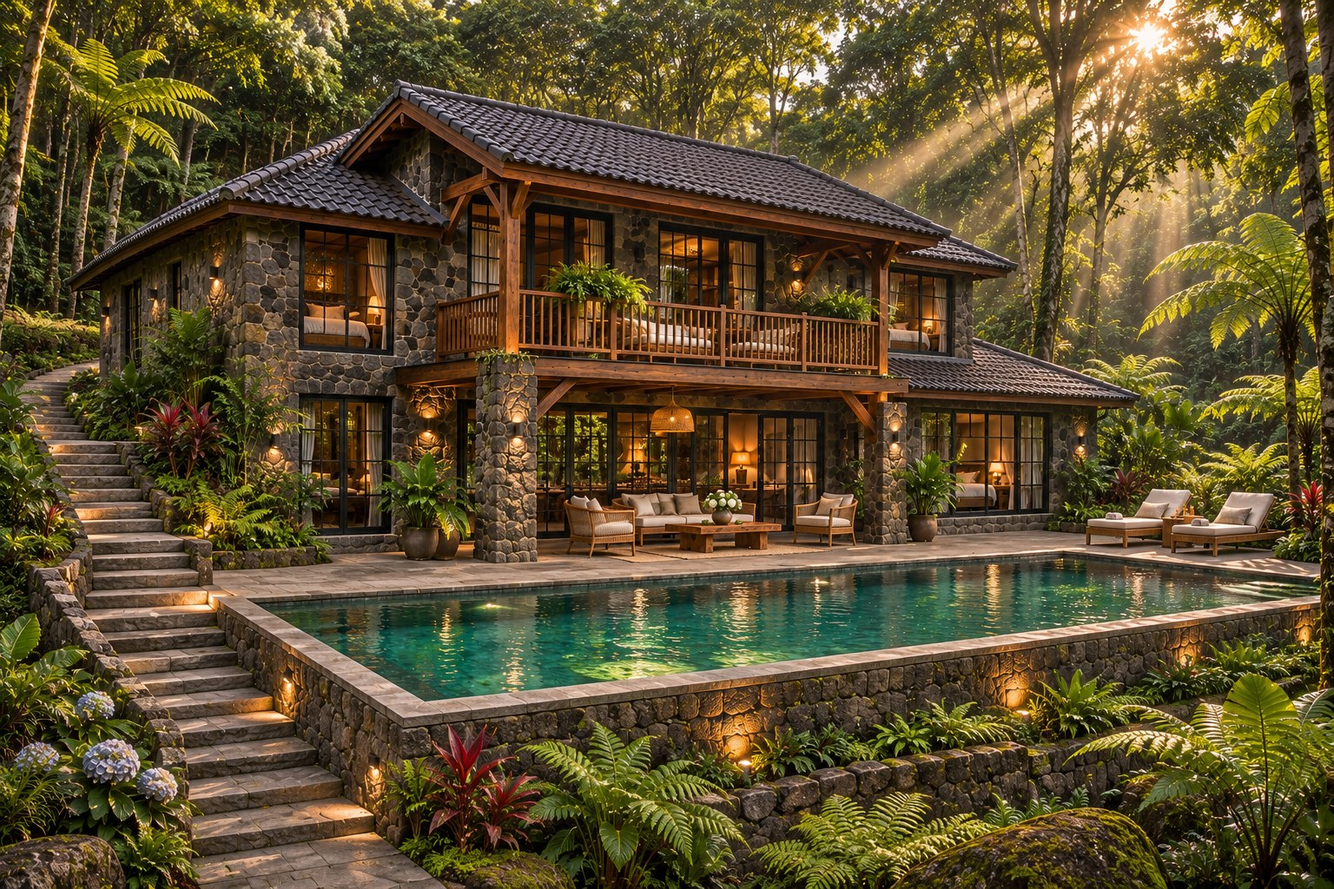
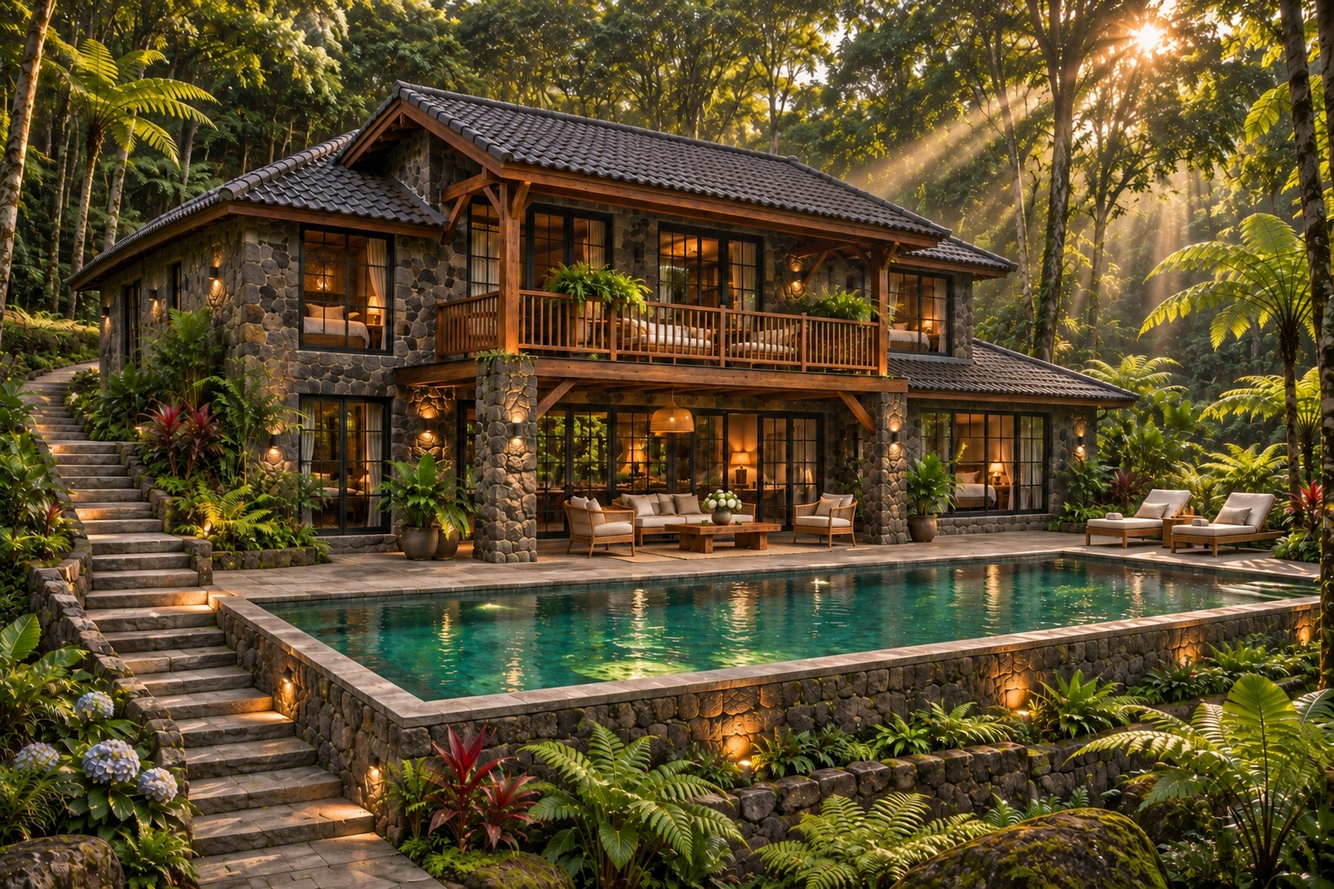
Complete Forest Lodge balcony pillar stonework

diff --git a/residences.html b/residences.html
@@ -1,1 +1,1 @@
-<!doctype html><html lang="en"><head><meta charset="utf-8"><meta name="viewport" content="width=device-width,initial-scale=1"><title>Cabins, lodges &amp; estates | Mount Paradise, Trawas</title><meta name="description" content="Explore private cabins, lodges and estates at Mount Paradise in Trawas, East Java. Discover the signature Mountain Lodge and the residence collection for mountain living."><meta name="theme-color" content="#20362d"><meta property="og:site_name" content="Mount Paradise"><meta property="og:title" content="Private Residences | Mount Paradise, Trawas"><meta property="og:description" content="Explore private cabins, lodges and estates at Mount Paradise in Trawas, East Java. Discover the signature Mountain Lodge and the residence collection for mountain living."><meta property="og:type" content="website"><meta property="og:image" content="https://mountparadisejava.com/assets/residences-social.jpg?v=c3536069a8eb"><meta property="og:image:secure_url" content="https://mountparadisejava.com/assets/residences-social.jpg?v=c3536069a8eb"><meta property="og:image:type" content="image/jpeg"><meta property="og:image:width" content="1200"><meta property="og:image:height" content="630"><meta property="og:image:alt" content="The Mountain Lodge, a private timber-and-volcanic-stone residence at Mount Paradise"><meta property="og:url" content="https://mountparadisejava.com/residences.html"><meta name="twitter:card" content="summary_large_image"><meta name="twitter:title" content="Private Residences | Mount Paradise, Trawas"><meta name="twitter:description" content="Explore private cabins, lodges and estates at Mount Paradise in Trawas, East Java. Discover the signature Mountain Lodge and the residence collection for mountain living."><meta name="twitter:image" content="https://mountparadisejava.com/assets/residences-social.jpg?v=c3536069a8eb"><link rel="canonical" href="https://mountparadisejava.com/residences.html"><link rel="icon" href="assets/mark.svg" type="image/svg+xml"><link rel="stylesheet" href="styles.css?v=20261120-anchor"><script src="site.js?v=20261120-anchor" defer></script></head><body id="top" class="land-page"><a class="skip" href="#main">Skip to content</a><header><a class="brand" href="index.html" aria-label="Mount Paradise home"><svg viewBox="0 0 80 34" aria-hidden="true"><path d="M3 31 29 4 43 21 53 10 77 31M17 25 29 16 37 21"/></svg><span>MOUNT PARADISE<small>TRAWAS · EAST JAVA</small></span></a><button class="menu-toggle" aria-expanded="false" aria-controls="navigation">Menu <span aria-hidden="true">☰</span></button><nav id="navigation" aria-label="Main navigation"><details class="nav-group"><summary>Discover</summary><div class="nav-dropdown"><a href="index.html">Home</a><a href="discover.html">The Mount Paradise story</a><a href="arvorest-woods.html">Arvorest Woods</a></div></details><a href="main-lodge.html" >Main Lodge</a><a href="occasions.html" >Occasions</a><a href="residences.html" aria-current="page">Residences</a><a href="botanical-gardens.html" >Arboretum & Gardens</a><a href="wellness.html" >Wellness & Recreation</a><a href="800-club.html" >800 Club</a></nav></header><main id="main"><section class="page-heading"><p class="eyebrow">Private residences / Ownership collection</p><h1>Your place<br><em>in the mountains.</em></h1><p>Cabins. Lodges. Estates. Eight ways to make Mount Paradise your own.</p></section><section class="section collection-intro" id="discover"><div class="split"><h2>Choose your<br>way of living.</h2><p>Explore the residence models offered for ownership, from an intimate cabin to a generous private estate. Each architectural concept shares warm timber, volcanic stone and a private relationship with the garden. Final layouts, specifications and availability are discussed individually with our sales team.</p></div><div class="catalogue-tabs" aria-label="Residence categories"><a href="#cabins">Cabins <small>2 models</small></a><a href="#lodges">Lodges <small>4 models</small></a><a href="#estates">Estates <small>2 models</small></a></div><div class="model-menu"><a href="#mountain-cabin"><img src="assets/mountain-cabin.jpg?v=d2bf4eb482dc" alt="Mountain Cabin" loading="lazy"><strong>Mountain Cabin</strong><small>Cabins · Single-storey one-bedroom cabin</small></a><a href="#fern-retreat"><img src="assets/fern-retreat.jpg?v=429e02c01bad" alt="Garden Cabin" loading="lazy"><strong>Garden Cabin</strong><small>Cabins · Single-storey one-bedroom garden cabin</small></a><a href="#garden-lodge"><img src="assets/mountain-lodge-full.jpg?v=c046265d838a" alt="Mountain Lodge" loading="lazy"><strong>Mountain Lodge</strong><small>Lodges · Single-storey two-bedroom mountain home</small></a><a href="#orchard-family"><img src="assets/orchard-family.jpg?v=bd83fcfa621b" alt="Courtyard Lodge" loading="lazy"><strong>Courtyard Lodge</strong><small>Lodges · Three-bedroom home arranged around a courtyard</small></a><a href="#vista-lodge"><img src="assets/vista.jpg?v=15de71b12b52" alt="Vista Lodge" loading="lazy"><strong>Vista Lodge</strong><small>Lodges · Broad single-storey three-bedroom lodge</small></a><a href="#forest-lodge"><img src="assets/forest-cinematic.jpg?v=5a62e40a1016" alt="Forest Lodge" loading="lazy"><strong>Forest Lodge</strong><small>Lodges · Two-storey four-bedroom forest home</small></a><a href="#ridge-reserve"><img src="assets/ridge-reserve.jpg?v=6df47c1a2cef" alt="Ridge Estate" loading="lazy"><strong>Ridge Estate</strong><small>Estates · Split-level residence with a tall gable and upper balcony</small></a><a href="#paradise-estate"><img src="assets/paradise-estate.jpg?v=f716ccda8613" alt="Paradise Estate" loading="lazy"><strong>Paradise Estate</strong><small>Estates · Multiple connected residential wings with varied roof heights</small></a></div></section><section class="section collection-group" id="cabins"><p class="eyebrow">cabins</p><h2>A simpler foothold.</h2><p class="collection-lead">Compact private escapes with a garden and sheltered porch.</p><article class="collection-lodge" id="mountain-cabin"><figure class=""><a href="assets/mountain-cabin.jpg?v=d2bf4eb482dc" data-lightbox aria-label="Enlarge: Mountain Cabin"><img src="assets/mountain-cabin.jpg?v=d2bf4eb482dc" alt="Mountain Cabin" loading="lazy" width="1536" height="1024"></a></figure><div class="collection-details"><div><h3>Mountain Cabin</h3><p>A warm timber and volcanic-stone cabin with room to settle in. The enlarged concept brings together a cozy living area, kitchenette and small dining table, with a separate bedroom and enclosed bathroom behind. A sheltered porch keeps everyday life close to the mountain garden.</p><a class="text-link" href="mailto:sales@mountparadisejava.com?subject=Mount%20Paradise%20%7C%20Mountain%20Cabin">Enquire about Mountain Cabin</a></div><dl><div><dt>Architecture</dt><dd>Single-storey one-bedroom cabin</dd></div><div><dt>Garden</dt><dd>A small private fern garden</dd></div><div><dt>Pool</dt><dd>No private pool; shared swimming planned at the Main Lodge, subject to membership</dd></div><div><dt>Outdoor living</dt><dd>Sheltered porch with two lounge chairs</dd></div></dl></div></article><article class="collection-lodge" id="fern-retreat"><figure class=""><a href="assets/fern-retreat.jpg?v=429e02c01bad" data-lightbox aria-label="Enlarge: Garden Cabin"><img src="assets/fern-retreat.jpg?v=429e02c01bad" alt="Garden Cabin" loading="lazy" width="1536" height="1024"></a></figure><div class="collection-details"><div><h3>Garden Cabin</h3><p>A generous veranda and private lawn shape this light-filled garden home. The refreshed concept makes room for an open living area, a compact kitchen and indoor dining, with a private bedroom behind a full-height wall and an enclosed bathroom reached from an internal passage. The bedroom sits within a volcanic-stone enclosure on the left, with private garden-facing windows, while a curving path leads to broad steps and the main living entrance. Warm timber and deep eaves preserve its intimate garden character.</p><a class="text-link" href="mailto:sales@mountparadisejava.com?subject=Mount%20Paradise%20%7C%20Garden%20Cabin">Enquire about Garden Cabin</a></div><dl><div><dt>Architecture</dt><dd>Single-storey one-bedroom garden cabin</dd></div><div><dt>Garden</dt><dd>Private lawn and a layered fern garden</dd></div><div><dt>Pool</dt><dd>Garden living without a pool in this concept</dd></div><div><dt>Outdoor living</dt><dd>Broad veranda with a lounge nook and outdoor table</dd></div></dl></div></article></section><section class="section collection-group" id="lodges"><p class="eyebrow">lodges</p><h2>Room to make it yours.</h2><p class="collection-lead">Two-, three- and four-bedroom homes with distinct settings for family life and entertaining. Every lodge is planned with its own driveway and parking behind the house.</p><article class="collection-lodge" id="garden-lodge"><figure class=""><a href="assets/mountain-lodge-full.jpg?v=c046265d838a" data-lightbox aria-label="Enlarge: Mountain Lodge"><img src="assets/mountain-lodge-full.jpg?v=c046265d838a" alt="Mountain Lodge" loading="lazy" width="1536" height="1024"></a></figure><div class="collection-details"><div><h3>Mountain Lodge</h3><p>Our signature two-bedroom Mountain Lodge brings together a sheltered veranda, private pool and generous mountain outlook. Dark volcanic stone and warm timber frame relaxed living spaces, with an intimate scale for a couple, a small family or visiting friends.</p><a class="text-link" href="mailto:sales@mountparadisejava.com?subject=Mount%20Paradise%20%7C%20Mountain%20Lodge">Enquire about Mountain Lodge</a></div><dl><div><dt>Architecture</dt><dd>Single-storey two-bedroom mountain home</dd></div><div><dt>Garden</dt><dd>Private planted garden and pool terrace</dd></div><div><dt>Pool</dt><dd>Private pool</dd></div><div><dt>Outdoor living</dt><dd>BBQ dining terrace</dd></div><div><dt>Bedrooms</dt><dd>2 bedrooms</dd></div><div><dt>Arrival</dt><dd>Private driveway and parking behind the lodge</dd></div></dl></div></article><article class="collection-lodge" id="orchard-family"><figure class=""><a href="assets/orchard-family.jpg?v=bd83fcfa621b" data-lightbox aria-label="Enlarge: Courtyard Lodge"><img src="assets/orchard-family.jpg?v=bd83fcfa621b" alt="Courtyard Lodge" loading="lazy" width="1536" height="1024"></a></figure><div class="collection-details"><div><h3>Courtyard Lodge</h3><p>Three bedrooms sit within connected wings around a generous courtyard lawn. A larger family pool, covered BBQ dining and space for a casual game of badminton make this a home for unhurried days together.</p><a class="text-link" href="mailto:sales@mountparadisejava.com?subject=Mount%20Paradise%20%7C%20Courtyard%20Lodge">Enquire about Courtyard Lodge</a></div><dl><div><dt>Architecture</dt><dd>Three-bedroom home arranged around a courtyard</dd></div><div><dt>Garden</dt><dd>Courtyard lawn with a badminton net and fruit-tree borders</dd></div><div><dt>Pool</dt><dd>Generous private family swimming pool</dd></div><div><dt>Outdoor living</dt><dd>Covered BBQ dining terrace and lawn games</dd></div><div><dt>Bedrooms</dt><dd>3 bedrooms</dd></div><div><dt>Arrival</dt><dd>Private driveway and parking behind the lodge</dd></div></dl></div></article><article class="collection-lodge" id="vista-lodge"><figure class=""><a href="assets/vista.jpg?v=15de71b12b52" data-lightbox aria-label="Enlarge: Vista Lodge"><img src="assets/vista.jpg?v=15de71b12b52" alt="Vista Lodge" loading="lazy" width="1536" height="1024"></a></figure><div class="collection-details"><div><h3>Vista Lodge</h3><p>A complete three-bedroom home arranged along a broad mountain-facing veranda. A long private pool follows the outlook, with a comfortable lounge and a single sheltered dining area giving the terrace a relaxed residential character.</p><a class="text-link" href="mailto:sales@mountparadisejava.com?subject=Mount%20Paradise%20%7C%20Vista%20Lodge">Enquire about Vista Lodge</a></div><dl><div><dt>Architecture</dt><dd>Broad single-storey three-bedroom lodge</dd></div><div><dt>Garden</dt><dd>Generous view-facing garden and terrace</dd></div><div><dt>Pool</dt><dd>Long private pool</dd></div><div><dt>Outdoor living</dt><dd>Sheltered dining for six, BBQ area and a veranda lounge</dd></div><div><dt>Bedrooms</dt><dd>3 bedrooms</dd></div><div><dt>Arrival</dt><dd>Private driveway and parking behind the lodge</dd></div></dl></div></article><article class="collection-lodge" id="forest-lodge"><figure class=""><a href="assets/forest-cinematic.jpg?v=5a62e40a1016" data-lightbox aria-label="Enlarge: Forest Lodge"><img src="assets/forest-cinematic.jpg?v=5a62e40a1016" alt="Forest Lodge" loading="lazy" width="1536" height="1024"></a></figure><div class="collection-details"><div><h3>Forest Lodge</h3><p>The most expansive lodge in the collection, with four bedrooms, an upper timber balcony and generous living spaces opening into the forest. A substantial swimming pool and a reconfigured terrace create room to swim, lounge and gather among the trees.</p><a class="text-link" href="mailto:sales@mountparadisejava.com?subject=Mount%20Paradise%20%7C%20Forest%20Lodge">Enquire about Forest Lodge</a></div><dl><div><dt>Architecture</dt><dd>Two-storey four-bedroom forest home</dd></div><div><dt>Garden</dt><dd>Terraced garden with shaded corners</dd></div><div><dt>Pool</dt><dd>Large private swimming pool with a generous terrace</dd></div><div><dt>Outdoor living</dt><dd>Sheltered lounge, garden dining and poolside terrace</dd></div><div><dt>Bedrooms</dt><dd>4 bedrooms</dd></div><div><dt>Arrival</dt><dd>Private driveway and parking behind the lodge</dd></div></dl></div></article></section><section class="section collection-group" id="estates"><p class="eyebrow">estates</p><h2>A more expansive world.</h2><p class="collection-lead">Generous homes and grounds for longer stays and bringing everyone together.</p><article class="collection-lodge" id="ridge-reserve"><figure class=""><a href="assets/ridge-reserve.jpg?v=6df47c1a2cef" data-lightbox aria-label="Enlarge: Ridge Estate"><img src="assets/ridge-reserve.jpg?v=6df47c1a2cef" alt="Ridge Estate" loading="lazy" width="1536" height="1024"></a></figure><div class="collection-details"><div><h3>Ridge Estate</h3><p>A tall glazed gable and a lower stone wing create a more expressive mountain home. An upper balcony overlooks the grounds, while the main terrace opens to a generous lawn and a long pool facing the landscape.</p><a class="text-link" href="mailto:sales@mountparadisejava.com?subject=Mount%20Paradise%20%7C%20Ridge%20Estate">Enquire about Ridge Estate</a></div><dl><div><dt>Architecture</dt><dd>Split-level residence with a tall gable and upper balcony</dd></div><div><dt>Garden</dt><dd>Generous landscaped yard with distinct lounging and lawn areas</dd></div><div><dt>Pool</dt><dd>An elongated pool along the view terrace</dd></div><div><dt>Outdoor living</dt><dd>Covered outdoor kitchen with a built-in BBQ grill and dining for eight</dd></div></dl></div></article><article class="collection-lodge" id="paradise-estate"><figure class=""><a href="assets/paradise-estate.jpg?v=f716ccda8613" data-lightbox aria-label="Enlarge: Paradise Estate"><img src="assets/paradise-estate.jpg?v=f716ccda8613" alt="Paradise Estate" loading="lazy" width="1536" height="1024"></a></figure><div class="collection-details"><div><h3>Paradise Estate</h3><p>A private estate conceived around gathering, with substantial residential wings and a shared living hall. The grounds become a sequence of outdoor rooms: a broad lawn, a pool terrace, a dining space and a separate fire lounge.</p><a class="text-link" href="mailto:sales@mountparadisejava.com?subject=Mount%20Paradise%20%7C%20Paradise%20Estate">Enquire about Paradise Estate</a></div><dl><div><dt>Architecture</dt><dd>Multiple connected residential wings with varied roof heights</dd></div><div><dt>Garden</dt><dd>Expansive private grounds with a large usable lawn and mature planting</dd></div><div><dt>Pool</dt><dd>A long private pool with space to relax alongside</dd></div><div><dt>Outdoor living</dt><dd>Full outdoor kitchen with BBQ grill, dining for twelve and a separate fire lounge</dd></div></dl></div></article></section><section class="section contact-band"><div><p class="eyebrow">Residence ownership</p><h2>Find your<br>mountain home.</h2><p>For model availability, specifications and ownership enquiries, speak with the sales team.</p></div><div><a class="text-link" href="mailto:sales@mountparadisejava.com">sales@mountparadisejava.com</a></div></section></main><footer><div class="footer-grid"><div><p class="eyebrow">Mount Paradise / Trawas, East Java</p><h2>An elevated way<br>to stay, gather, and live.</h2><a class="text-link" href="mailto:info@mountparadisejava.com">info@mountparadisejava.com</a><br><a class="text-link" href="mailto:sales@mountparadisejava.com">Residence sales</a></div><div class="footer-links"><a href="discover.html">Discover</a><a href="main-lodge.html">Main Lodge</a><a href="occasions.html">Occasions</a><a href="residences.html">Residences</a><a href="botanical-gardens.html">Arboretum & Gardens</a><a href="wellness.html">Wellness & Recreation</a><a href="800-club.html">800 Club</a></div><div class="footer-links"><a href="index.html">Home</a><a href="arvorest-woods.html">Arvorest Woods</a><a href="botanical-gardens.html">Arboretum & gardens</a></div></div><p class="vision-note">A destination taking shape. Imagery presents architectural and landscape concepts; proposed facilities and experiences are part of the overall vision.</p><div class="footer-bottom"><span>© 2026 Mount Paradise</span><span>MountParadiseJava.com</span><a href="#top">Back to top</a></div></footer><dialog class="lightbox" aria-label="Image viewer"><button aria-label="Close image" class="close-lightbox">Close ×</button><img alt=""></dialog></body></html>
+<!doctype html><html lang="en"><head><meta charset="utf-8"><meta name="viewport" content="width=device-width,initial-scale=1"><title>Cabins, lodges &amp; estates | Mount Paradise, Trawas</title><meta name="description" content="Explore private cabins, lodges and estates at Mount Paradise in Trawas, East Java. Discover the signature Mountain Lodge and the residence collection for mountain living."><meta name="theme-color" content="#20362d"><meta property="og:site_name" content="Mount Paradise"><meta property="og:title" content="Private Residences | Mount Paradise, Trawas"><meta property="og:description" content="Explore private cabins, lodges and estates at Mount Paradise in Trawas, East Java. Discover the signature Mountain Lodge and the residence collection for mountain living."><meta property="og:type" content="website"><meta property="og:image" content="https://mountparadisejava.com/assets/residences-social.jpg?v=c3536069a8eb"><meta property="og:image:secure_url" content="https://mountparadisejava.com/assets/residences-social.jpg?v=c3536069a8eb"><meta property="og:image:type" content="image/jpeg"><meta property="og:image:width" content="1200"><meta property="og:image:height" content="630"><meta property="og:image:alt" content="The Mountain Lodge, a private timber-and-volcanic-stone residence at Mount Paradise"><meta property="og:url" content="https://mountparadisejava.com/residences.html"><meta name="twitter:card" content="summary_large_image"><meta name="twitter:title" content="Private Residences | Mount Paradise, Trawas"><meta name="twitter:description" content="Explore private cabins, lodges and estates at Mount Paradise in Trawas, East Java. Discover the signature Mountain Lodge and the residence collection for mountain living."><meta name="twitter:image" content="https://mountparadisejava.com/assets/residences-social.jpg?v=c3536069a8eb"><link rel="canonical" href="https://mountparadisejava.com/residences.html"><link rel="icon" href="assets/mark.svg" type="image/svg+xml"><link rel="stylesheet" href="styles.css?v=20261120-anchor"><script src="site.js?v=20261120-anchor" defer></script></head><body id="top" class="land-page"><a class="skip" href="#main">Skip to content</a><header><a class="brand" href="index.html" aria-label="Mount Paradise home"><svg viewBox="0 0 80 34" aria-hidden="true"><path d="M3 31 29 4 43 21 53 10 77 31M17 25 29 16 37 21"/></svg><span>MOUNT PARADISE<small>TRAWAS · EAST JAVA</small></span></a><button class="menu-toggle" aria-expanded="false" aria-controls="navigation">Menu <span aria-hidden="true">☰</span></button><nav id="navigation" aria-label="Main navigation"><details class="nav-group"><summary>Discover</summary><div class="nav-dropdown"><a href="index.html">Home</a><a href="discover.html">The Mount Paradise story</a><a href="arvorest-woods.html">Arvorest Woods</a></div></details><a href="main-lodge.html" >Main Lodge</a><a href="occasions.html" >Occasions</a><a href="residences.html" aria-current="page">Residences</a><a href="botanical-gardens.html" >Arboretum & Gardens</a><a href="wellness.html" >Wellness & Recreation</a><a href="800-club.html" >800 Club</a></nav></header><main id="main"><section class="page-heading"><p class="eyebrow">Private residences / Ownership collection</p><h1>Your place<br><em>in the mountains.</em></h1><p>Cabins. Lodges. Estates. Eight ways to make Mount Paradise your own.</p></section><section class="section collection-intro" id="discover"><div class="split"><h2>Choose your<br>way of living.</h2><p>Explore the residence models offered for ownership, from an intimate cabin to a generous private estate. Each architectural concept shares warm timber, volcanic stone and a private relationship with the garden. Final layouts, specifications and availability are discussed individually with our sales team.</p></div><div class="catalogue-tabs" aria-label="Residence categories"><a href="#cabins">Cabins <small>2 models</small></a><a href="#lodges">Lodges <small>4 models</small></a><a href="#estates">Estates <small>2 models</small></a></div><div class="model-menu"><a href="#mountain-cabin"><img src="assets/mountain-cabin.jpg?v=d2bf4eb482dc" alt="Mountain Cabin" loading="lazy"><strong>Mountain Cabin</strong><small>Cabins · Single-storey one-bedroom cabin</small></a><a href="#fern-retreat"><img src="assets/fern-retreat.jpg?v=429e02c01bad" alt="Garden Cabin" loading="lazy"><strong>Garden Cabin</strong><small>Cabins · Single-storey one-bedroom garden cabin</small></a><a href="#garden-lodge"><img src="assets/mountain-lodge-full.jpg?v=c046265d838a" alt="Mountain Lodge" loading="lazy"><strong>Mountain Lodge</strong><small>Lodges · Single-storey two-bedroom mountain home</small></a><a href="#orchard-family"><img src="assets/orchard-family.jpg?v=bd83fcfa621b" alt="Courtyard Lodge" loading="lazy"><strong>Courtyard Lodge</strong><small>Lodges · Three-bedroom home arranged around a courtyard</small></a><a href="#vista-lodge"><img src="assets/vista.jpg?v=15de71b12b52" alt="Vista Lodge" loading="lazy"><strong>Vista Lodge</strong><small>Lodges · Broad single-storey three-bedroom lodge</small></a><a href="#forest-lodge"><img src="assets/forest-cinematic.jpg?v=d5d4e773dcdc" alt="Forest Lodge" loading="lazy"><strong>Forest Lodge</strong><small>Lodges · Two-storey four-bedroom forest home</small></a><a href="#ridge-reserve"><img src="assets/ridge-reserve.jpg?v=6df47c1a2cef" alt="Ridge Estate" loading="lazy"><strong>Ridge Estate</strong><small>Estates · Split-level residence with a tall gable and upper balcony</small></a><a href="#paradise-estate"><img src="assets/paradise-estate.jpg?v=f716ccda8613" alt="Paradise Estate" loading="lazy"><strong>Paradise Estate</strong><small>Estates · Multiple connected residential wings with varied roof heights</small></a></div></section><section class="section collection-group" id="cabins"><p class="eyebrow">cabins</p><h2>A simpler foothold.</h2><p class="collection-lead">Compact private escapes with a garden and sheltered porch.</p><article class="collection-lodge" id="mountain-cabin"><figure class=""><a href="assets/mountain-cabin.jpg?v=d2bf4eb482dc" data-lightbox aria-label="Enlarge: Mountain Cabin"><img src="assets/mountain-cabin.jpg?v=d2bf4eb482dc" alt="Mountain Cabin" loading="lazy" width="1536" height="1024"></a></figure><div class="collection-details"><div><h3>Mountain Cabin</h3><p>A warm timber and volcanic-stone cabin with room to settle in. The enlarged concept brings together a cozy living area, kitchenette and small dining table, with a separate bedroom and enclosed bathroom behind. A sheltered porch keeps everyday life close to the mountain garden.</p><a class="text-link" href="mailto:sales@mountparadisejava.com?subject=Mount%20Paradise%20%7C%20Mountain%20Cabin">Enquire about Mountain Cabin</a></div><dl><div><dt>Architecture</dt><dd>Single-storey one-bedroom cabin</dd></div><div><dt>Garden</dt><dd>A small private fern garden</dd></div><div><dt>Pool</dt><dd>No private pool; shared swimming planned at the Main Lodge, subject to membership</dd></div><div><dt>Outdoor living</dt><dd>Sheltered porch with two lounge chairs</dd></div></dl></div></article><article class="collection-lodge" id="fern-retreat"><figure class=""><a href="assets/fern-retreat.jpg?v=429e02c01bad" data-lightbox aria-label="Enlarge: Garden Cabin"><img src="assets/fern-retreat.jpg?v=429e02c01bad" alt="Garden Cabin" loading="lazy" width="1536" height="1024"></a></figure><div class="collection-details"><div><h3>Garden Cabin</h3><p>A generous veranda and private lawn shape this light-filled garden home. The refreshed concept makes room for an open living area, a compact kitchen and indoor dining, with a private bedroom behind a full-height wall and an enclosed bathroom reached from an internal passage. The bedroom sits within a volcanic-stone enclosure on the left, with private garden-facing windows, while a curving path leads to broad steps and the main living entrance. Warm timber and deep eaves preserve its intimate garden character.</p><a class="text-link" href="mailto:sales@mountparadisejava.com?subject=Mount%20Paradise%20%7C%20Garden%20Cabin">Enquire about Garden Cabin</a></div><dl><div><dt>Architecture</dt><dd>Single-storey one-bedroom garden cabin</dd></div><div><dt>Garden</dt><dd>Private lawn and a layered fern garden</dd></div><div><dt>Pool</dt><dd>Garden living without a pool in this concept</dd></div><div><dt>Outdoor living</dt><dd>Broad veranda with a lounge nook and outdoor table</dd></div></dl></div></article></section><section class="section collection-group" id="lodges"><p class="eyebrow">lodges</p><h2>Room to make it yours.</h2><p class="collection-lead">Two-, three- and four-bedroom homes with distinct settings for family life and entertaining. Every lodge is planned with its own driveway and parking behind the house.</p><article class="collection-lodge" id="garden-lodge"><figure class=""><a href="assets/mountain-lodge-full.jpg?v=c046265d838a" data-lightbox aria-label="Enlarge: Mountain Lodge"><img src="assets/mountain-lodge-full.jpg?v=c046265d838a" alt="Mountain Lodge" loading="lazy" width="1536" height="1024"></a></figure><div class="collection-details"><div><h3>Mountain Lodge</h3><p>Our signature two-bedroom Mountain Lodge brings together a sheltered veranda, private pool and generous mountain outlook. Dark volcanic stone and warm timber frame relaxed living spaces, with an intimate scale for a couple, a small family or visiting friends.</p><a class="text-link" href="mailto:sales@mountparadisejava.com?subject=Mount%20Paradise%20%7C%20Mountain%20Lodge">Enquire about Mountain Lodge</a></div><dl><div><dt>Architecture</dt><dd>Single-storey two-bedroom mountain home</dd></div><div><dt>Garden</dt><dd>Private planted garden and pool terrace</dd></div><div><dt>Pool</dt><dd>Private pool</dd></div><div><dt>Outdoor living</dt><dd>BBQ dining terrace</dd></div><div><dt>Bedrooms</dt><dd>2 bedrooms</dd></div><div><dt>Arrival</dt><dd>Private driveway and parking behind the lodge</dd></div></dl></div></article><article class="collection-lodge" id="orchard-family"><figure class=""><a href="assets/orchard-family.jpg?v=bd83fcfa621b" data-lightbox aria-label="Enlarge: Courtyard Lodge"><img src="assets/orchard-family.jpg?v=bd83fcfa621b" alt="Courtyard Lodge" loading="lazy" width="1536" height="1024"></a></figure><div class="collection-details"><div><h3>Courtyard Lodge</h3><p>Three bedrooms sit within connected wings around a generous courtyard lawn. A larger family pool, covered BBQ dining and space for a casual game of badminton make this a home for unhurried days together.</p><a class="text-link" href="mailto:sales@mountparadisejava.com?subject=Mount%20Paradise%20%7C%20Courtyard%20Lodge">Enquire about Courtyard Lodge</a></div><dl><div><dt>Architecture</dt><dd>Three-bedroom home arranged around a courtyard</dd></div><div><dt>Garden</dt><dd>Courtyard lawn with a badminton net and fruit-tree borders</dd></div><div><dt>Pool</dt><dd>Generous private family swimming pool</dd></div><div><dt>Outdoor living</dt><dd>Covered BBQ dining terrace and lawn games</dd></div><div><dt>Bedrooms</dt><dd>3 bedrooms</dd></div><div><dt>Arrival</dt><dd>Private driveway and parking behind the lodge</dd></div></dl></div></article><article class="collection-lodge" id="vista-lodge"><figure class=""><a href="assets/vista.jpg?v=15de71b12b52" data-lightbox aria-label="Enlarge: Vista Lodge"><img src="assets/vista.jpg?v=15de71b12b52" alt="Vista Lodge" loading="lazy" width="1536" height="1024"></a></figure><div class="collection-details"><div><h3>Vista Lodge</h3><p>A complete three-bedroom home arranged along a broad mountain-facing veranda. A long private pool follows the outlook, with a comfortable lounge and a single sheltered dining area giving the terrace a relaxed residential character.</p><a class="text-link" href="mailto:sales@mountparadisejava.com?subject=Mount%20Paradise%20%7C%20Vista%20Lodge">Enquire about Vista Lodge</a></div><dl><div><dt>Architecture</dt><dd>Broad single-storey three-bedroom lodge</dd></div><div><dt>Garden</dt><dd>Generous view-facing garden and terrace</dd></div><div><dt>Pool</dt><dd>Long private pool</dd></div><div><dt>Outdoor living</dt><dd>Sheltered dining for six, BBQ area and a veranda lounge</dd></div><div><dt>Bedrooms</dt><dd>3 bedrooms</dd></div><div><dt>Arrival</dt><dd>Private driveway and parking behind the lodge</dd></div></dl></div></article><article class="collection-lodge" id="forest-lodge"><figure class=""><a href="assets/forest-cinematic.jpg?v=d5d4e773dcdc" data-lightbox aria-label="Enlarge: Forest Lodge"><img src="assets/forest-cinematic.jpg?v=d5d4e773dcdc" alt="Forest Lodge" loading="lazy" width="1536" height="1024"></a></figure><div class="collection-details"><div><h3>Forest Lodge</h3><p>The most expansive lodge in the collection, with four bedrooms, an upper timber balcony and generous living spaces opening into the forest. A substantial swimming pool and a reconfigured terrace create room to swim, lounge and gather among the trees.</p><a class="text-link" href="mailto:sales@mountparadisejava.com?subject=Mount%20Paradise%20%7C%20Forest%20Lodge">Enquire about Forest Lodge</a></div><dl><div><dt>Architecture</dt><dd>Two-storey four-bedroom forest home</dd></div><div><dt>Garden</dt><dd>Terraced garden with shaded corners</dd></div><div><dt>Pool</dt><dd>Large private swimming pool with a generous terrace</dd></div><div><dt>Outdoor living</dt><dd>Sheltered lounge, garden dining and poolside terrace</dd></div><div><dt>Bedrooms</dt><dd>4 bedrooms</dd></div><div><dt>Arrival</dt><dd>Private driveway and parking behind the lodge</dd></div></dl></div></article></section><section class="section collection-group" id="estates"><p class="eyebrow">estates</p><h2>A more expansive world.</h2><p class="collection-lead">Generous homes and grounds for longer stays and bringing everyone together.</p><article class="collection-lodge" id="ridge-reserve"><figure class=""><a href="assets/ridge-reserve.jpg?v=6df47c1a2cef" data-lightbox aria-label="Enlarge: Ridge Estate"><img src="assets/ridge-reserve.jpg?v=6df47c1a2cef" alt="Ridge Estate" loading="lazy" width="1536" height="1024"></a></figure><div class="collection-details"><div><h3>Ridge Estate</h3><p>A tall glazed gable and a lower stone wing create a more expressive mountain home. An upper balcony overlooks the grounds, while the main terrace opens to a generous lawn and a long pool facing the landscape.</p><a class="text-link" href="mailto:sales@mountparadisejava.com?subject=Mount%20Paradise%20%7C%20Ridge%20Estate">Enquire about Ridge Estate</a></div><dl><div><dt>Architecture</dt><dd>Split-level residence with a tall gable and upper balcony</dd></div><div><dt>Garden</dt><dd>Generous landscaped yard with distinct lounging and lawn areas</dd></div><div><dt>Pool</dt><dd>An elongated pool along the view terrace</dd></div><div><dt>Outdoor living</dt><dd>Covered outdoor kitchen with a built-in BBQ grill and dining for eight</dd></div></dl></div></article><article class="collection-lodge" id="paradise-estate"><figure class=""><a href="assets/paradise-estate.jpg?v=f716ccda8613" data-lightbox aria-label="Enlarge: Paradise Estate"><img src="assets/paradise-estate.jpg?v=f716ccda8613" alt="Paradise Estate" loading="lazy" width="1536" height="1024"></a></figure><div class="collection-details"><div><h3>Paradise Estate</h3><p>A private estate conceived around gathering, with substantial residential wings and a shared living hall. The grounds become a sequence of outdoor rooms: a broad lawn, a pool terrace, a dining space and a separate fire lounge.</p><a class="text-link" href="mailto:sales@mountparadisejava.com?subject=Mount%20Paradise%20%7C%20Paradise%20Estate">Enquire about Paradise Estate</a></div><dl><div><dt>Architecture</dt><dd>Multiple connected residential wings with varied roof heights</dd></div><div><dt>Garden</dt><dd>Expansive private grounds with a large usable lawn and mature planting</dd></div><div><dt>Pool</dt><dd>A long private pool with space to relax alongside</dd></div><div><dt>Outdoor living</dt><dd>Full outdoor kitchen with BBQ grill, dining for twelve and a separate fire lounge</dd></div></dl></div></article></section><section class="section contact-band"><div><p class="eyebrow">Residence ownership</p><h2>Find your<br>mountain home.</h2><p>For model availability, specifications and ownership enquiries, speak with the sales team.</p></div><div><a class="text-link" href="mailto:sales@mountparadisejava.com">sales@mountparadisejava.com</a></div></section></main><footer><div class="footer-grid"><div><p class="eyebrow">Mount Paradise / Trawas, East Java</p><h2>An elevated way<br>to stay, gather, and live.</h2><a class="text-link" href="mailto:info@mountparadisejava.com">info@mountparadisejava.com</a><br><a class="text-link" href="mailto:sales@mountparadisejava.com">Residence sales</a></div><div class="footer-links"><a href="discover.html">Discover</a><a href="main-lodge.html">Main Lodge</a><a href="occasions.html">Occasions</a><a href="residences.html">Residences</a><a href="botanical-gardens.html">Arboretum & Gardens</a><a href="wellness.html">Wellness & Recreation</a><a href="800-club.html">800 Club</a></div><div class="footer-links"><a href="index.html">Home</a><a href="arvorest-woods.html">Arvorest Woods</a><a href="botanical-gardens.html">Arboretum & gardens</a></div></div><p class="vision-note">A destination taking shape. Imagery presents architectural and landscape concepts; proposed facilities and experiences are part of the overall vision.</p><div class="footer-bottom"><span>© 2026 Mount Paradise</span><span>MountParadiseJava.com</span><a href="#top">Back to top</a></div></footer><dialog class="lightbox" aria-label="Image viewer"><button aria-label="Close image" class="close-lightbox">Close ×</button><img alt=""></dialog></body></html>
